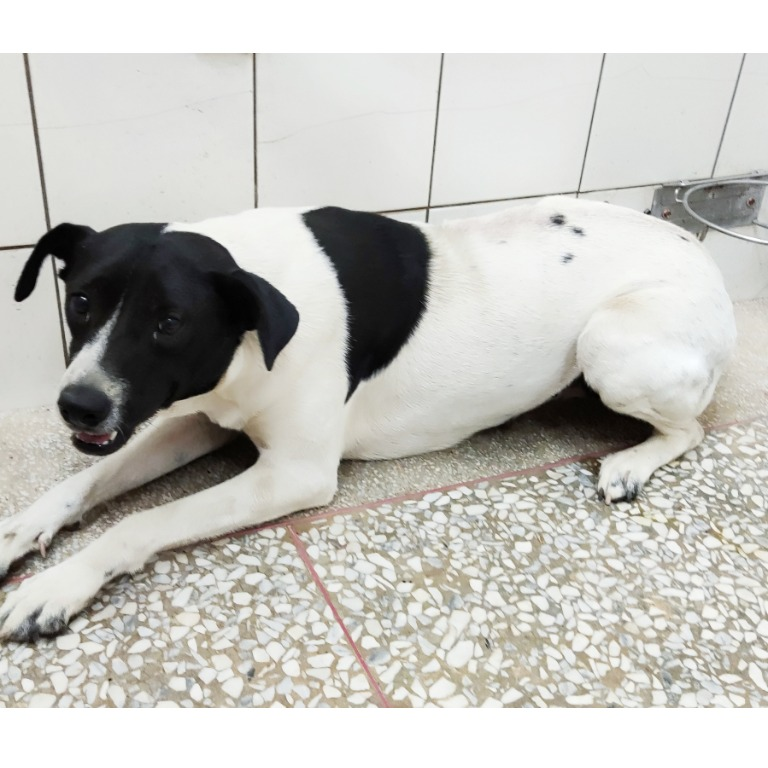
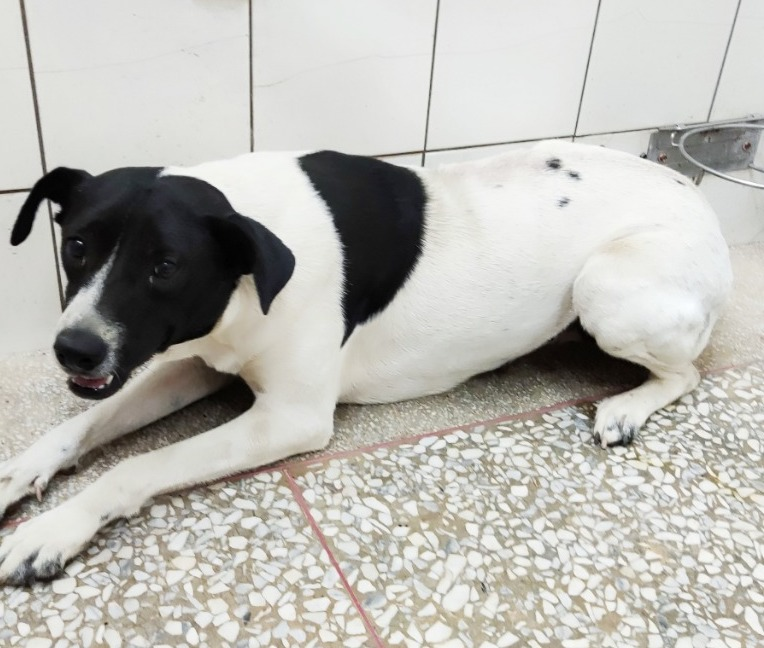
modify img settings

diff --git a/frontend/components/AdopterInfoPage/AdopterAnimalInfo.jsx b/frontend/components/AdopterInfoPage/AdopterAnimalInfo.jsx
@@ -35,7 +35,7 @@ export default function AdopterAnimalInfo() {
       fetchData();
     }
   }, [m_id]);
-  // const animalData = [{ img: '/animals/1.jpg', title: 'name1', link: '/animals/animalsInfo', },];
+  // const animalData = [{ animalId: 1, title: 'name1',},];
 
   if (isLoading) {
     return;
@@ -47,7 +47,7 @@ export default function AdopterAnimalInfo() {
         <ImageList
           sx={{
             width: "100%",
-            height: 500,
+            height: 300,
             overflow: 'auto',
             padding: '10px 30px 30px 30px',
             '&::-webkit-scrollbar-track': {
@@ -66,6 +66,7 @@ export default function AdopterAnimalInfo() {
                 srcSet={`/animals/${item.animalId}.jpg?w=248&fit=crop&auto=format&dpr=2 2x`}
                 alt={item.title}
                 loading="lazy"
+                style={{ height: 200, width: 300, objectFit: 'cover' }}
               />
               <ImageListItemBar
                 title={item.title}

diff --git a/frontend/components/AccountPage/AccountAnimalInfo.jsx b/frontend/components/AccountPage/AccountAnimalInfo.jsx
@@ -68,7 +68,7 @@ export default function AccountAnimalInfo(props) {
         <ImageList
           sx={{
             width: "100%",
-            height: 500,
+            height: 300,
             overflow: 'auto',
             padding: '10px 30px 30px 30px',
             '&::-webkit-scrollbar-track': {
@@ -87,6 +87,7 @@ export default function AccountAnimalInfo(props) {
                 srcSet={`/animals/${item.animalId}.jpg?w=248&fit=crop&auto=format&dpr=2 2x`}
                 alt={item.title}
                 loading="lazy"
+                style={{ height: 200, width: 300, objectFit: 'cover' }}
               />
               <ImageListItemBar
                 title={item.title}

diff --git a/frontend/components/AdopterListPage/AdopterAnimalList.jsx b/frontend/components/AdopterListPage/AdopterAnimalList.jsx
@@ -9,10 +9,10 @@ export default function AnimalImageList(props) {
   return (
     <ImageList sx={{ width: '100%', overflow: 'hidden'}} cols={3} rowHeight={100} gap={1}>
       {imgData.map((item) => (
-        <ImageListItem key={item.img}>
+        <ImageListItem key={item.animalId}>
           <img
-            src={`${item.img}?w=248&fit=crop&auto=format`}
-            srcSet={`${item.img}?w=248&fit=crop&auto=format&dpr=2 2x`}
+            src={`/animals/${item.animalId}.jpg?w=248&fit=crop&auto=format`}
+            srcSet={`/animals/${item.animalId}.jpg?w=248&fit=crop&auto=format&dpr=2 2x`}
             alt={item.title}
             loading="lazy"
           />

diff --git a/frontend/components/AdopterListPage/AdopterList.jsx b/frontend/components/AdopterListPage/AdopterList.jsx
@@ -115,7 +115,7 @@ export default function AdopterList() {
     }
     fetchData();
   }, []);
-  // const rows = [{ "amount": 300, "id": 1, "animal": [{ "img": "animals/1.jpg", "title": "樂樂" }], "accumNum": 2, "currNum": 1, "adopter": "AAA" },]
+  // const rows = [{ "amount": 300, "id": 1, "animal": [{ "animalId": 1, "title": "樂樂" }], "accumNum": 2, "currNum": 1, "adopter": "AAA" },]
 
   if (isLoading) {
     return;

diff --git a/frontend/components/AnimalInfoPage/AniInfo.jsx b/frontend/components/AnimalInfoPage/AniInfo.jsx
@@ -65,7 +65,7 @@ export default function AniInfo({ animal, firstAdoptionStatus }) {
               <img
                 src={'/animals/' + animal.id + '.jpg'}
                 alt={animal.name}
-                style={{ height: 200 }}
+                style={{ height: 200, width: 300, objectFit: 'cover' }}
               />
             ) : (
               firstAdoptionStatus === "認養中" ? (
